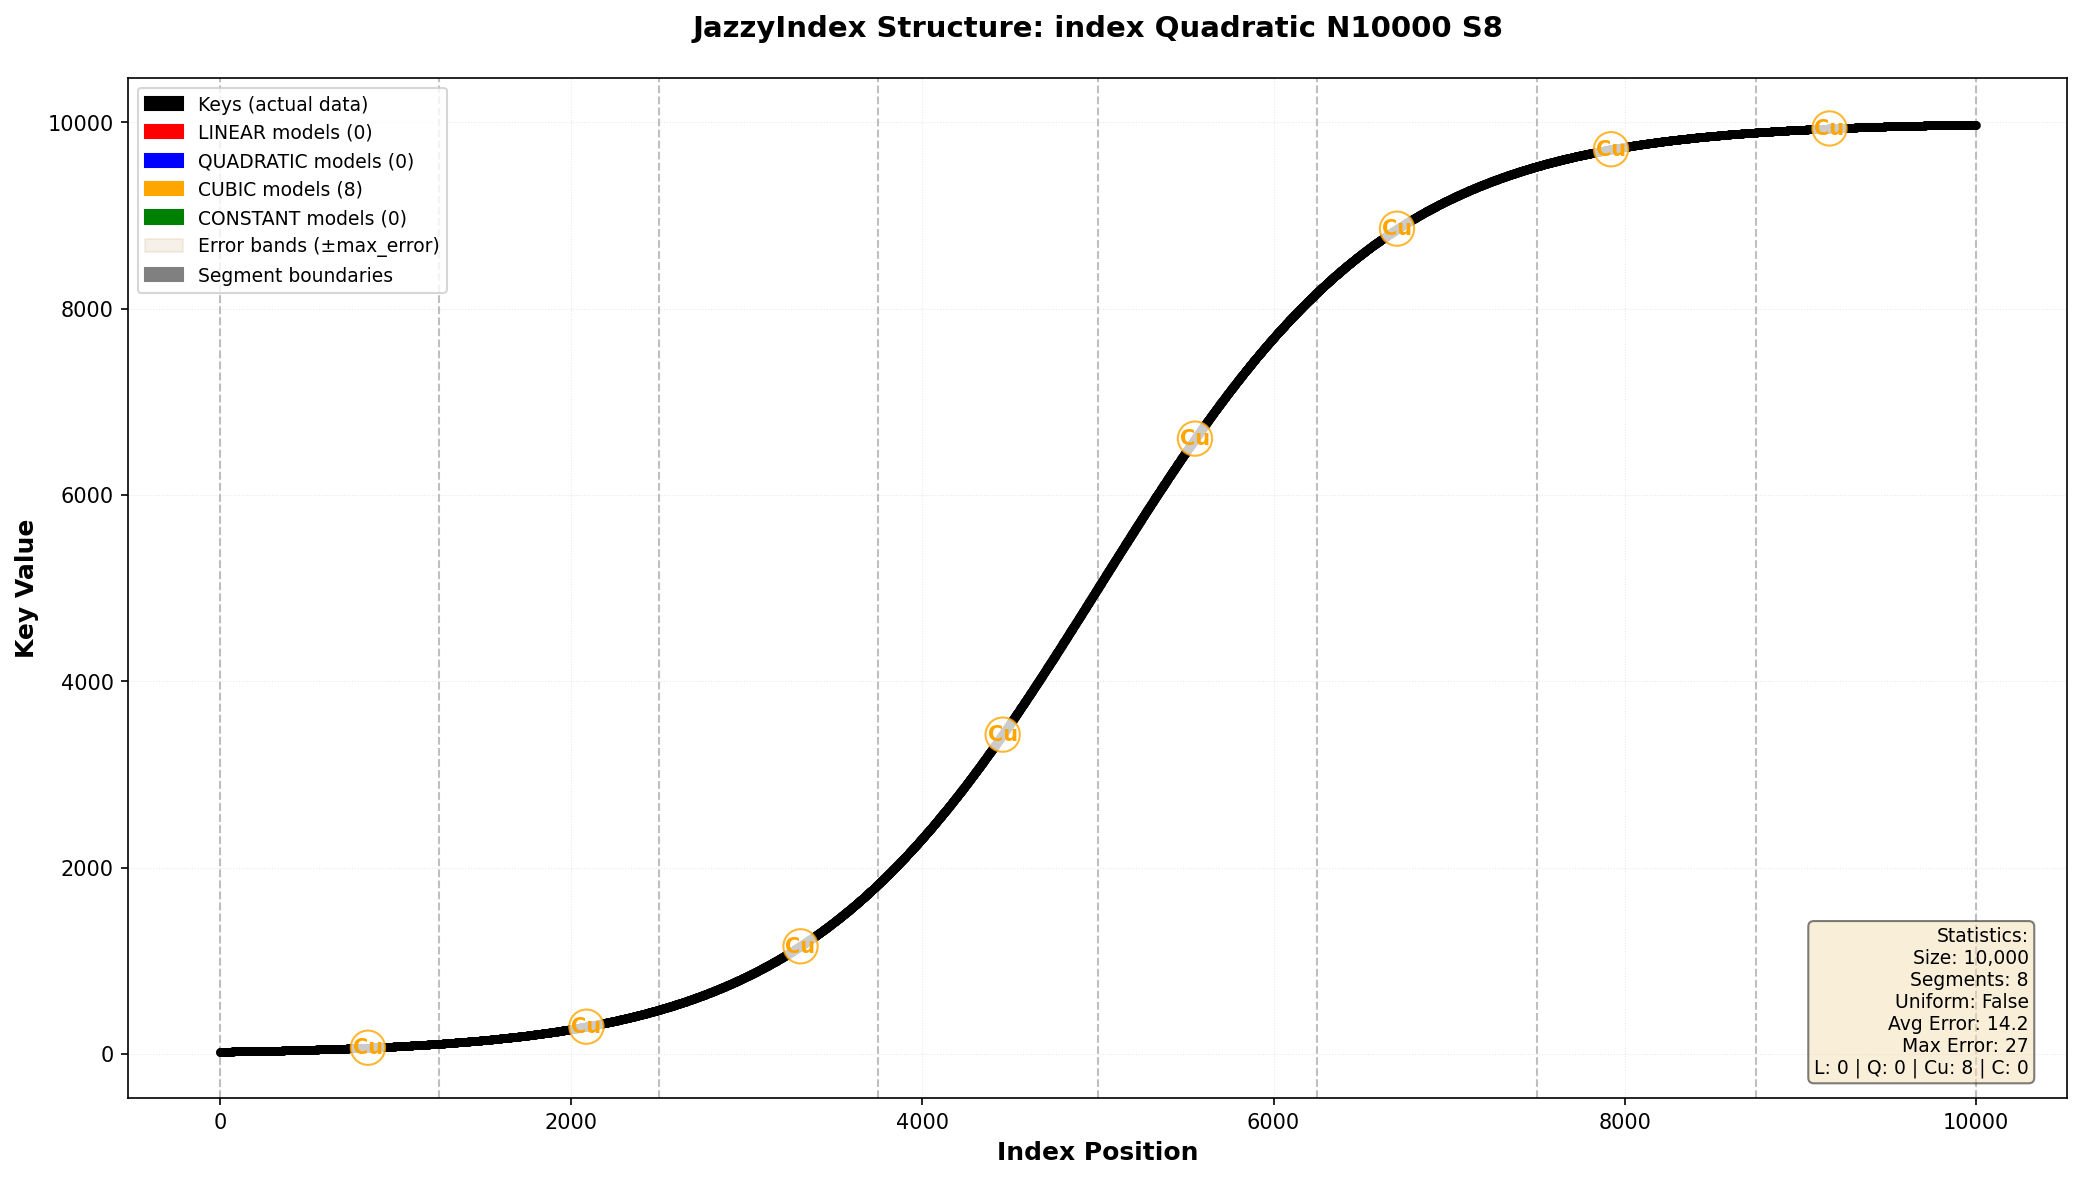
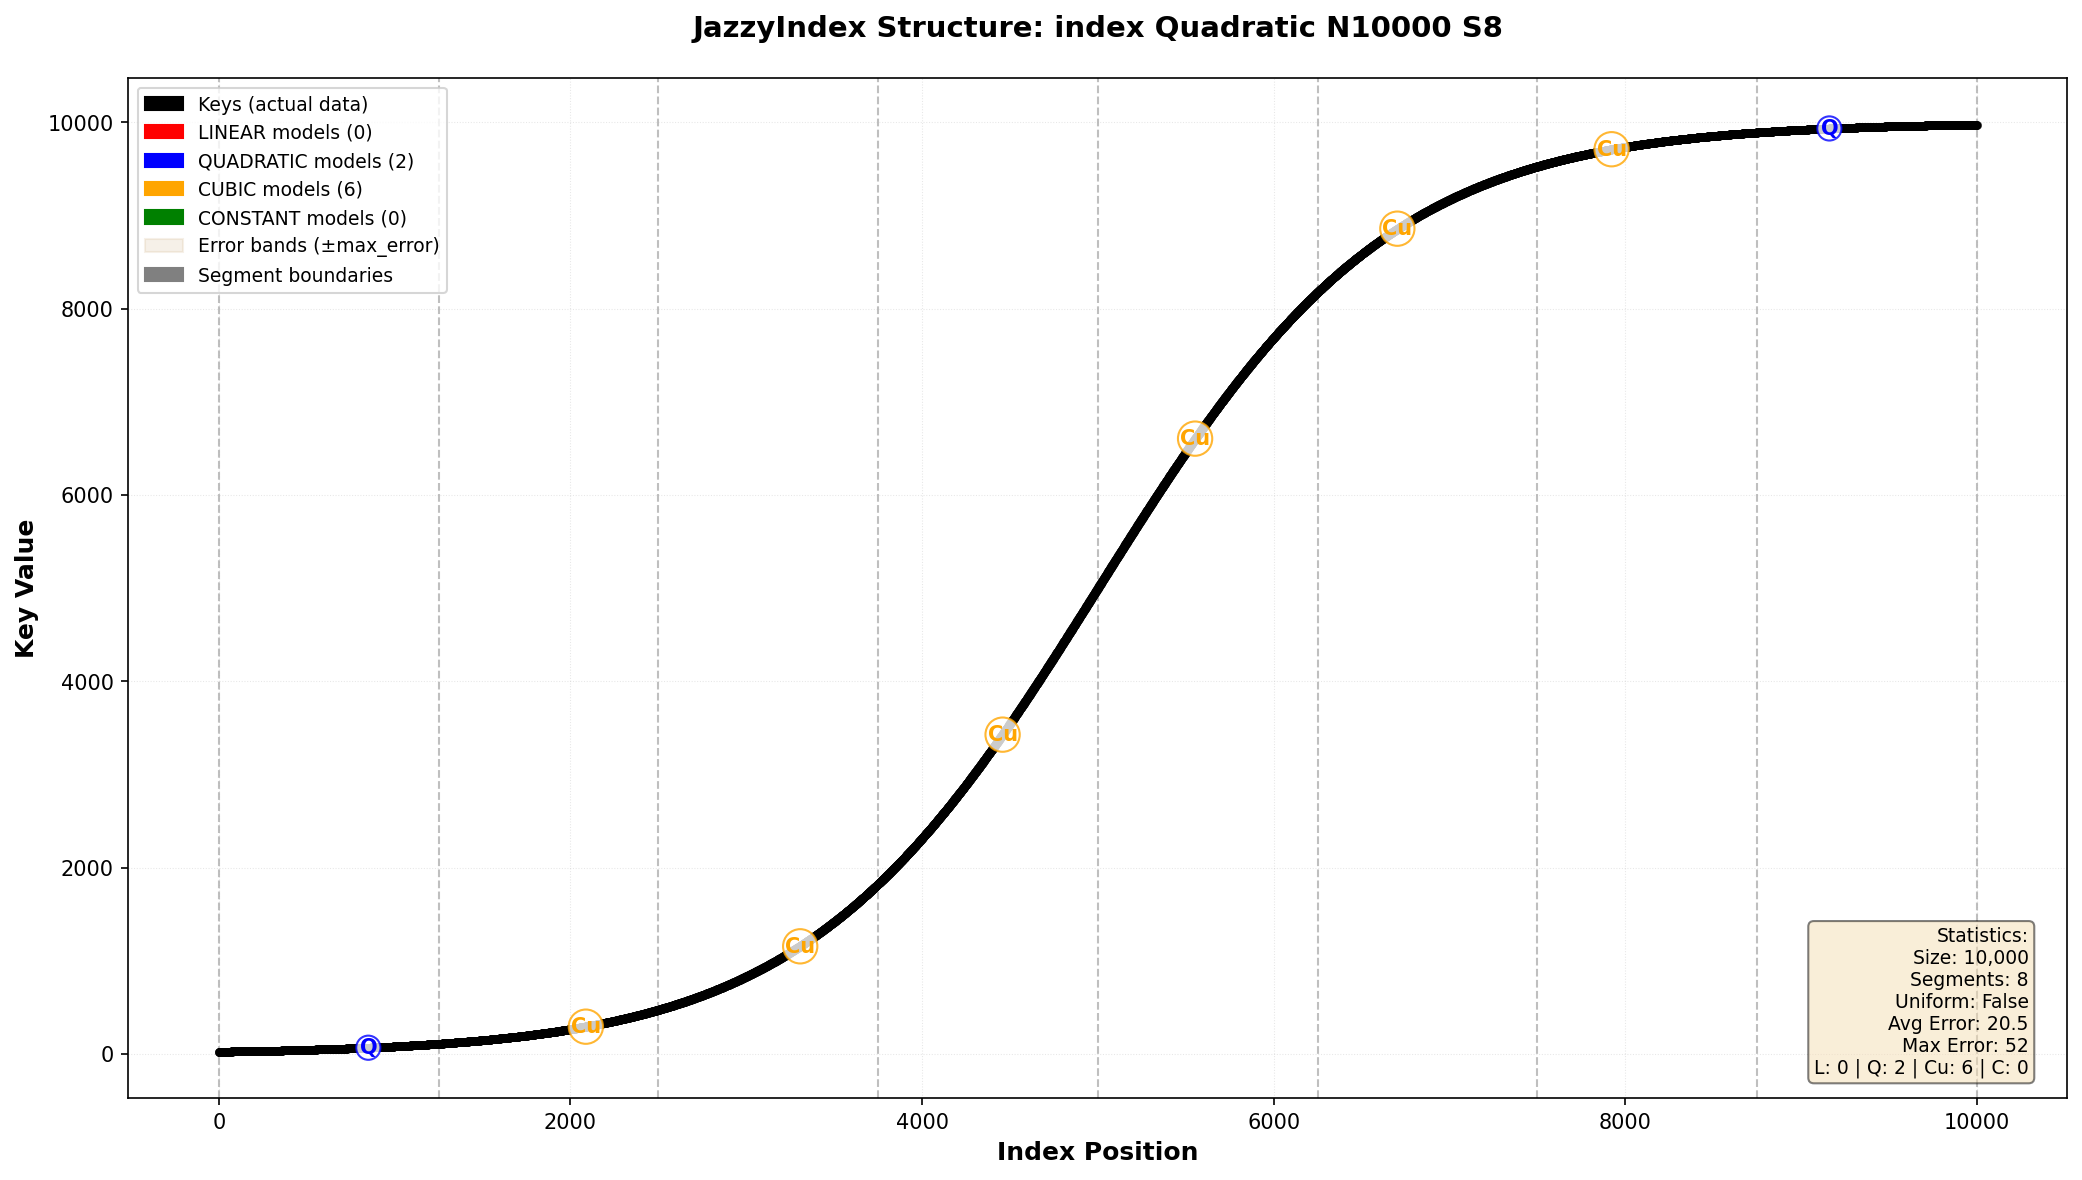
Add upper threshold for CUBIC model selection
Added MAX_CUBIC_WORTHWHILE_ERROR = 50 to prevent wasting build time
trying CUBIC on segments with discontinuities or high noise:
- Only try CUBIC if 6 < quadratic_error < 50
- If quadratic_error > 50, data likely non-polynomial (discontinuities)
- CUBIC cannot fit discontinuities, so skip expensive computation

Changes:
- Added MAX_CUBIC_WORTHWHILE_ERROR constant (jazzy_index.hpp:43-44)
- Updated CUBIC selection to check upper threshold (jazzy_index.hpp:309-310)
- Updated documentation with new criterion and rationale
- Regenerated visualization PNGs showing CUBIC changes

Results (N=10000, S=8):
- Quadratic: 8 → 6 CUBIC (2 high-error segments now skip CUBIC)
- ExtremePoly: 6 → 5 CUBIC (1 fewer)
- InversePoly: 6 → 5 CUBIC (1 fewer)
- Clustered: 2 CUBIC (unchanged)

Benefit: Faster build times on data with jumps/discontinuities
No runtime impact: CUBIC wasn't being selected on those segments anyway

diff --git a/include/jazzy_index.hpp b/include/jazzy_index.hpp
@@ -40,6 +40,9 @@ inline constexpr double CUBIC_IMPROVEMENT_THRESHOLD = 0.7;
 inline constexpr std::size_t MAX_ACCEPTABLE_QUADRATIC_ERROR = 6;
 // Quadratic models with error ≤6 are good enough; don't try cubic
 
+inline constexpr std::size_t MAX_CUBIC_WORTHWHILE_ERROR = 50;
+// If quadratic error >50, likely a discontinuity; cubic won't help, skip computation
+
 inline constexpr std::size_t SEARCH_RADIUS_MARGIN = 2;
 // Extra margin added to max_error for exponential search bounds
 
@@ -301,7 +304,10 @@ template <typename T>
             // Only accept quadratic if it's monotonic
             if (is_monotonic) {
                 // Check if we should try cubic for even better fit
-                if (quad_max_error > MAX_ACCEPTABLE_QUADRATIC_ERROR) {
+                // Only try cubic if error is in "sweet spot" (6 < error < 50)
+                // High error (>50) likely indicates discontinuity where cubic won't help
+                if (quad_max_error > MAX_ACCEPTABLE_QUADRATIC_ERROR &&
+                    quad_max_error < MAX_CUBIC_WORTHWHILE_ERROR) {
                     // Try cubic model using same normalized sums
                     // System: [Σx⁶  Σx⁵  Σx⁴  Σx³] [a]   [Σx³y]
                     //         [Σx⁵  Σx⁴  Σx³  Σx²] [b] = [Σx²y]

diff --git a/docs/MODEL_SELECTION.md b/docs/MODEL_SELECTION.md
@@ -92,8 +92,11 @@ predicted_index = a × value³ + b × value² + c × value + d
 
 **Selection criteria (Cubic):**
 1. Quadratic max_error > `MAX_ACCEPTABLE_QUADRATIC_ERROR` (6 elements)
-2. Cubic max_error ≤ `CUBIC_IMPROVEMENT_THRESHOLD` × quadratic_error (≤70%)
-3. **Monotonicity constraint:** Derivative f'(x) = 3ax² + 2bx + c ≥ 0 over segment range
+2. Quadratic max_error < `MAX_CUBIC_WORTHWHILE_ERROR` (50 elements)
+3. Cubic max_error ≤ `CUBIC_IMPROVEMENT_THRESHOLD` × quadratic_error (≤70%)
+4. **Monotonicity constraint:** Derivative f'(x) = 3ax² + 2bx + c ≥ 0 over segment range
+
+**Rationale for upper threshold:** If quadratic error > 50, data likely has discontinuities or noise that cubic cannot fit. Skipping cubic computation saves build time without affecting runtime performance.
 
 **Monotonicity requirement:**
 For a search index, the prediction function `f(key) = index` must be **monotonically increasing**.
